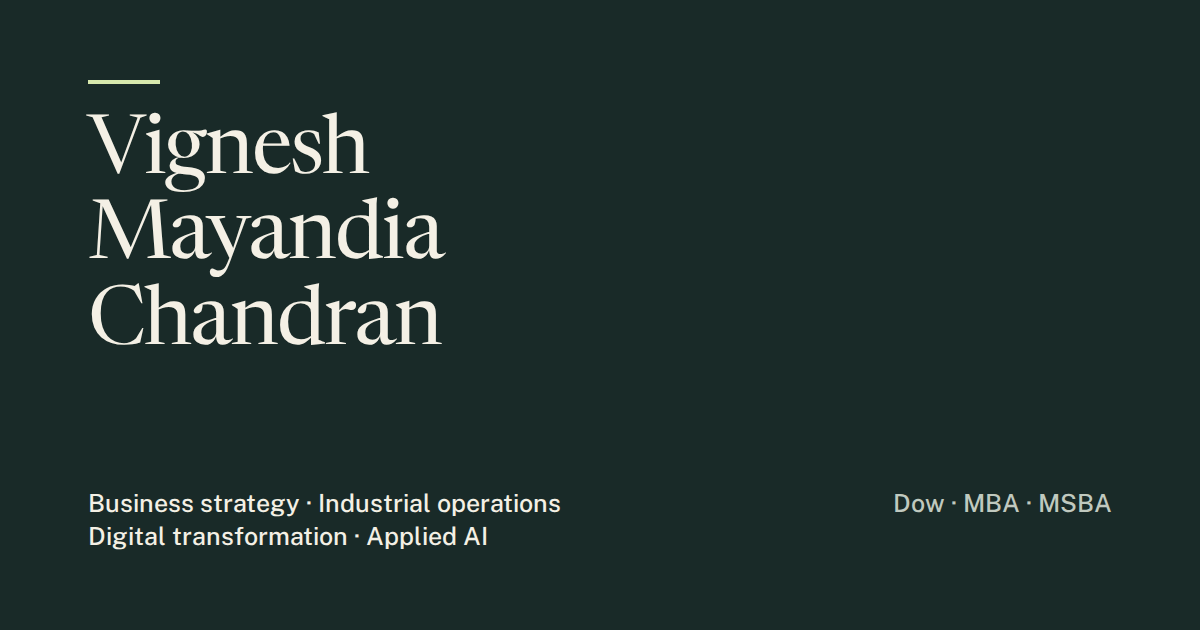
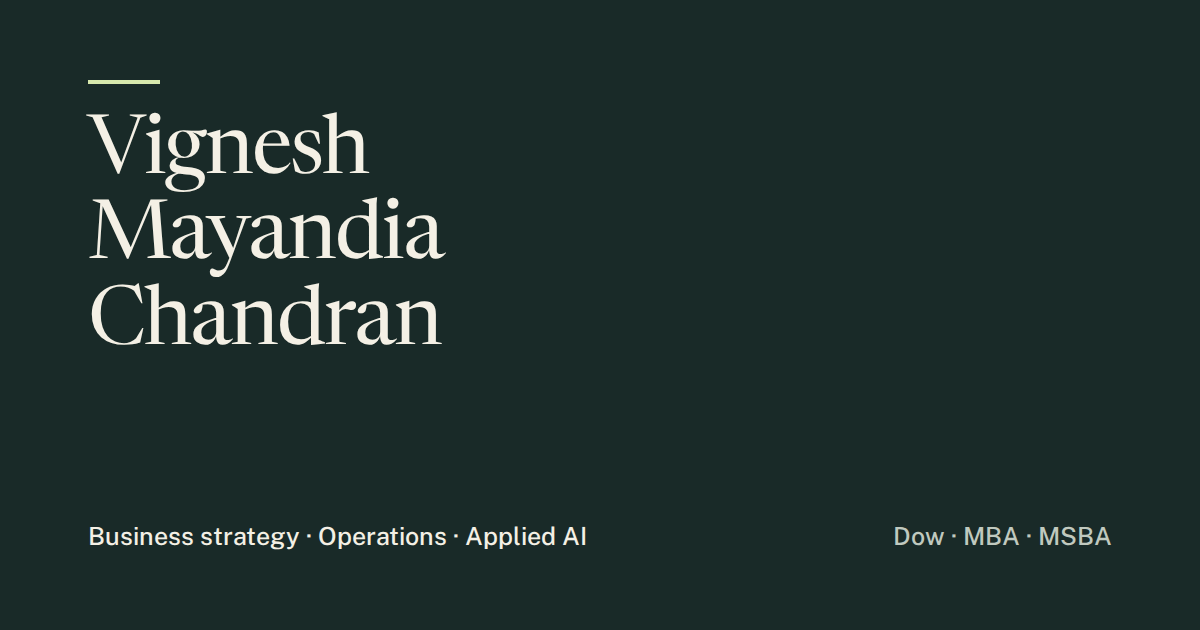
Update page descriptions, profile data and share image wording
Descriptions, the structured profile description and the share card now
use the same words as the page title: business strategy, operations and
applied AI.

Claude-Session: https://claude.ai/code/session_01EmC1wgxNdbC1FsNHe97QC8

Changed region(s): [[0.0617, 0.7841, 0.4933, 0.8746], [0.74, 0.7841, 0.925, 0.8746]]

diff --git a/src/data/profile.ts b/src/data/profile.ts
@@ -3,7 +3,7 @@
 export const person = {
   name: 'Vignesh Mayandia Chandran',
   description:
-    'Business strategy, industrial operations and applied AI, with more than five years at Dow. MBA and MS in Business Analytics from George Washington University, completed in May 2026. Work includes equipment-inspection workflows and records automation, a team records migration across 15 sites, market-entry and growth recommendations, and an AI prototype that estimates dinner demand for restaurant managers. Former president of the Graduate Consulting Club.',
+    'Business strategy, operations and applied AI, with more than five years at Dow. MBA and MS in Business Analytics from George Washington University, completed in May 2026. Work includes leading a program that moved 15 manufacturing sites onto a new maintenance system, market-entry and growth recommendations, and an AI prototype that estimates dinner demand for restaurant managers. Former president of the Graduate Consulting Club.',
   sameAs: ['https://www.linkedin.com/in/vignesh-mc/', 'https://github.com/vigneshmc7'],
   alumniOf: ['George Washington University'],
 };
